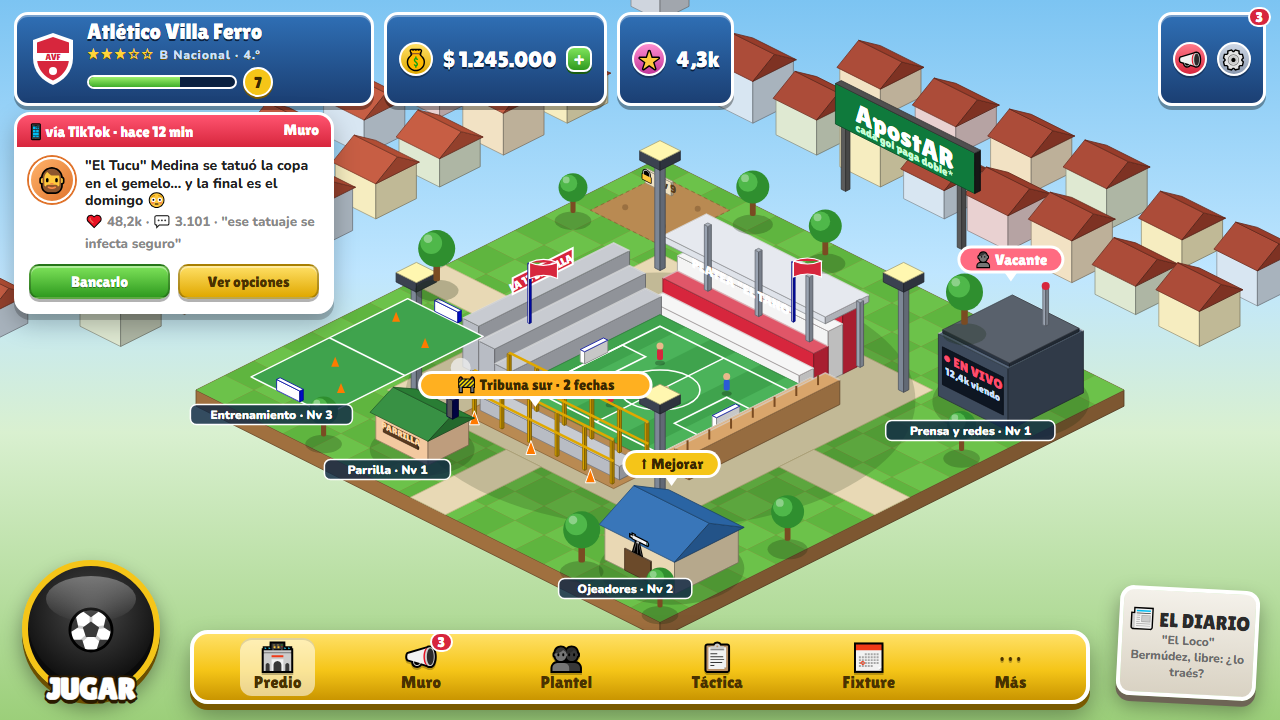
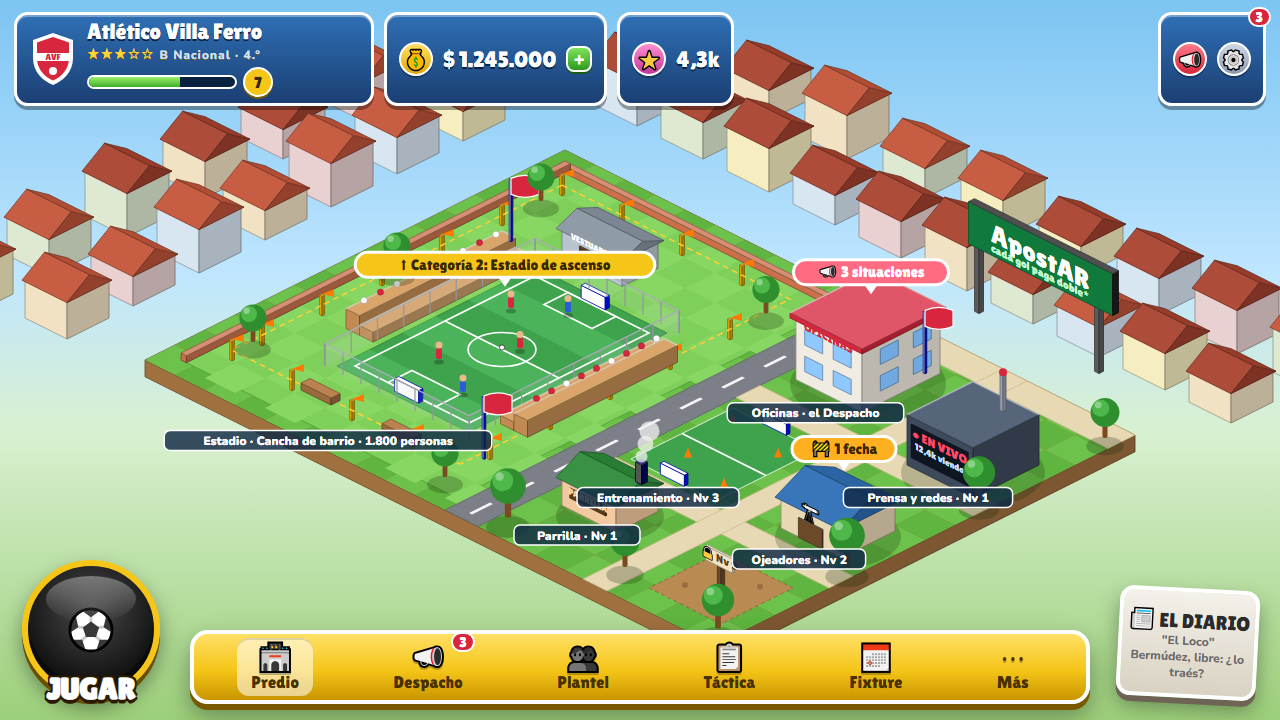
Mockup v2 del predio: estadio a un costado con terreno preparado, villa con oficinas del Despacho

diff --git a/referencias/mockups/predio.html b/referencias/mockups/predio.html
@@ -86,15 +86,6 @@
     <div class="pan" style="position:relative"><div class="ico" style="background:linear-gradient(#ff7a8a,#D7263D)">📣</div><span class="badge">3</span><div class="ico" style="background:linear-gradient(#cfd8e6,#8a99b0)">⚙</div></div>
   </div>
 
-  <div class="toast">
-    <div class="cab"><span>📱 vía TikTok · hace 12 min</span><span>Despacho</span></div>
-    <div class="cue">
-      <div class="av">🧔</div>
-      <div><p>"El Tucu" Medina se tatuó la copa en el gemelo… y la final es el domingo 😳</p><small>❤ 48,2k · 💬 3.101 · "ese tatuaje se infecta seguro"</small></div>
-    </div>
-    <div class="bot"><div class="btn v">Bancarlo</div><div class="btn a">Ver opciones</div></div>
-  </div>
-
   <div class="play"><span>⚽</span><b>JUGAR</b></div>
   <div class="nav">
     <div class="tab on"><span class="e">🏟</span>Predio</div>
@@ -109,7 +100,7 @@
 
 <script>
 // ---------- utilidades isométricas ----------
-const TW = 58, TH = 29, ZH = 27, CX = 660, CY = 158;
+const TW = 60, TH = 30, ZH = 28, CX = 565, CY = 150;
 const svg = document.getElementById('scene');
 const NS = 'http://www.w3.org/2000/svg';
 const P = (x, y, z = 0) => [CX + (x - y) * TW / 2, CY + (x + y) * TH / 2 - z * ZH];
@@ -162,32 +153,123 @@ function cartel(x, y, z, str) { // cartel de nombre bajo edificios
   const t = el('text', { x: sx, y: sy + 14.5, 'text-anchor': 'middle', 'font-family': 'Nunito', 'font-weight': 900, 'font-size': 12, fill: '#fff' }); t.textContent = str;
 }
 
-// ---------- barrio de fondo ----------
+// ---------- escena v2: estadio protagonista a la izquierda, villa a la derecha ----------
+const ROJO = '#D7263D', BLANCO = '#f4f4f4';
+
+// barrio de fondo (detrás de los bordes superiores)
 const casas = [];
-for (let i = -1; i < 16; i += 2.2) casas.push([i, -4.2], [-4.2, i]);
-for (let i = 0; i < 16; i += 2.6) casas.push([i + 1, -6.6], [-6.6, i + 1]);
+for (let i = -1; i < 20; i += 2.2) casas.push([i, -3.4]);
+for (let i = 0; i < 15; i += 2.2) casas.push([-3.4, i]);
+for (let i = 1; i < 20; i += 2.6) casas.push([i, -5.8]);
+for (let i = 1; i < 15; i += 2.6) casas.push([-5.8, i]);
 casas.sort((a, b) => (a[0] + a[1]) - (b[0] + b[1]));
 const paredes = ['#f2e2c4', '#e9d1d1', '#d8e6f2', '#f6edc0', '#dfe9d2'];
 casas.forEach(([x, y], i) => {
-  const c = paredes[i % paredes.length];
-  box(x, y, 0, 1.4, 1.4, 1.1 + (i % 3) * .25, c);
-  techo(x - .05, y - .05, 1.1 + (i % 3) * .25, 1.5, 1.5, .6, i % 2 ? '#c4553a' : '#a8432f');
+  const h = 1.1 + (i % 3) * .25, c = paredes[i % paredes.length];
+  box(x, y, 0, 1.4, 1.4, h, c);
+  techo(x - .05, y - .05, h, 1.5, 1.5, .6, i % 2 ? '#c4553a' : '#a8432f');
 });
-// tanque de agua y cartel de sponsor en el barrio
-box(-2.4, -2.4, 0, .3, .3, 3.2, '#8a8f99'); box(-2.75, -2.75, 3.2, 1, 1, .8, '#cfd5de', { shine: 1 });
-box(4.2, -2.2, 0, .15, .15, 2.4, '#5b5b5b'); box(8.2, -2.2, 0, .15, .15, 2.4, '#5b5b5b');
-box(3.9, -2.35, 2.2, 4.8, .2, 1.5, '#1d1d1d', { left: '#0f7a3c' });
-texto(6.3, -2.13, 2.7, 'ApostAR', 26, '#fff'); texto(6.3, -2.13, 2.35, 'cada gol paga doble*', 11, '#c9ffd9');
+// cartel de sponsor en el barrio
+box(12.2, -1.6, 0, .15, .15, 2.4, '#5b5b5b'); box(16.2, -1.6, 0, .15, .15, 2.4, '#5b5b5b');
+box(11.9, -1.75, 2.2, 4.8, .2, 1.5, '#1d1d1d', { left: '#0f7a3c' });
+texto(14.3, -1.53, 2.7, 'ApostAR', 26, '#fff'); texto(14.3, -1.53, 2.35, 'cada gol paga doble*', 11, '#c9ffd9');
 
-// ---------- plataforma y césped ----------
-box(0, 0, -.6, 16, 16, .6, '#a0703f', { top: '#a0703f' });
-for (let x = 0; x < 16; x++) for (let y = 0; y < 16; y++) poly([P(x, y), P(x + 1, y), P(x + 1, y + 1), P(x, y + 1)], (x + y) % 2 ? '#6cc24a' : '#5fb53f', { stroke: 'none' });
-// caminos de baldosa
-const camino = (x, y, w, d) => poly([P(x, y), P(x + w, y), P(x + w, y + d), P(x, y + d)], '#e8d9b5', { stroke: '#cbb88e' });
-camino(3.3, 3.3, 9.4, 9.4); // explanada alrededor del estadio
-camino(7.4, 12.7, 1.2, 3.3); camino(12.7, 7.4, 3.3, 1.2); camino(0, 7.4, 3.3, 1.2);
+// plataforma y césped
+const GX = 19, GY = 14;
+box(0, 0, -.6, GX, GY, .6, '#a0703f', { top: '#a0703f' });
+for (let x = 0; x < GX; x++) for (let y = 0; y < GY; y++) poly([P(x, y), P(x + 1, y), P(x + 1, y + 1), P(x, y + 1)], (x + y) % 2 ? '#6cc24a' : '#5fb53f', { stroke: 'none' });
+const piso = (x, y, w, d, c, s) => poly([P(x, y), P(x + w, y), P(x + w, y + d), P(x, y + d)], c, { stroke: s || shade(c, -.2) });
 
-// ---------- lotes bloqueados ----------
+// ===== ESTADIO: terreno reservado completo =====
+const SX = .6, SY = .6, SW = 9.2, SD = 12.8;          // terreno del estadio
+piso(SX, SY, SW, SD, '#7fd05a', '#4f9a35');            // césped más claro y prolijo
+for (let x = 0; x < SW; x += 1) for (let y = 0; y < SD; y += 1) if ((x + y) % 2) piso(SX + x, SY + y, 1, 1, '#88d763', 'none');
+// borde: murito bajo de ladrillo alrededor del terreno
+box(SX, SY, 0, SW, .18, .25, '#c96f4a'); box(SX, SY, 0, .18, SD, .25, '#c96f4a');
+// estacas de obra futura (marcan dónde irán las tribunas)
+const estaca = (x, y) => { box(x, y, 0, .08, .08, .7, '#e0a800'); const [sx, sy] = P(x, y, .7); el('path', { d: `M${sx},${sy} l12,-5 l0,8 z`, fill: '#ff7a00' }); };
+for (let x = 1.4; x < 9.4; x += 2) { estaca(x, 1.5); estaca(x, 12.5); }
+for (let y = 3.5; y < 12; y += 2) { estaca(1.4, y); estaca(9, y); }
+el('polyline', { points: pts([P(1.45, 1.55, .35), P(9.05, 1.55, .35), P(9.05, 12.55, .35)]), stroke: '#ffcf33', 'stroke-width': 1.5, 'stroke-dasharray': '6 4', fill: 'none' });
+el('polyline', { points: pts([P(1.45, 1.55, .35), P(1.45, 12.55, .35), P(9.05, 12.55, .35)]), stroke: '#ffcf33', 'stroke-width': 1.5, 'stroke-dasharray': '6 4', fill: 'none' });
+
+// tablón del fondo (lado izquierdo de la cancha, x chico)
+for (let i = 0; i < 2; i++) box(2.3 + i * .45, 4.4, 0, .45, 5.2, .7 - i * .35, '#c08a52', { shine: 1, top: '#d9a56b' });
+// vestuario de chapa
+box(3.5, 2.4, 0, 2, 1.2, 1, '#b9c4cf', { shine: 1 }); techo(3.4, 2.3, 1, 2.2, 1.4, .35, '#8a96a3');
+box(4.1, 3.6, 0, .6, .02, .7, '#5b3a1e'); texto(4.5, 3.62, .82, 'VESTUARIO', 8, '#fff');
+// la cancha (chica, cat. 1)
+const CXa = 3.4, CYa = 4.4, CW = 4.4, CD = 6.6;
+piso(CXa, CYa, CW, CD, '#3fa34d', '#2a7a37');
+for (let s = 0; s < 6; s++) if (s % 2) piso(CXa, CYa + s * CD / 6, CW, CD / 6, '#4bb35a', 'none');
+const L = { fill: 'none', stroke: '#fff', 'stroke-width': 1.6 };
+el('polygon', Object.assign({ points: pts([P(CXa + .3, CYa + .3), P(CXa + CW - .3, CYa + .3), P(CXa + CW - .3, CYa + CD - .3), P(CXa + .3, CYa + CD - .3)]) }, L));
+el('polyline', Object.assign({ points: pts([P(CXa + .3, CYa + CD / 2), P(CXa + CW - .3, CYa + CD / 2)]) }, L));
+{ const [ex, ey] = P(CXa + CW / 2, CYa + CD / 2); el('ellipse', Object.assign({ cx: ex, cy: ey, rx: 34, ry: 17 }, L)); }
+el('polygon', Object.assign({ points: pts([P(CXa + 1.4, CYa + .3), P(CXa + 3, CYa + .3), P(CXa + 3, CYa + 1.1), P(CXa + 1.4, CYa + 1.1)]) }, L));
+el('polygon', Object.assign({ points: pts([P(CXa + 1.4, CYa + CD - .3), P(CXa + 3, CYa + CD - .3), P(CXa + 3, CYa + CD - 1.1), P(CXa + 1.4, CYa + CD - 1.1)]) }, L));
+box(CXa + 1.8, CYa + .12, 0, .8, .14, .45, '#fff', { top: '#fff' });
+box(CXa + 1.8, CYa + CD - .26, 0, .8, .14, .45, '#fff', { top: '#fff' });
+[[4.4, 6.2, ROJO], [5.9, 7.4, ROJO], [4.9, 9.1, ROJO], [6.4, 9.8, '#2b5bd7'], [5.5, 5.4, '#2b5bd7']].forEach(([x, y, c]) => { const [sx, sy] = P(x, y); el('ellipse', { cx: sx, cy: sy + 2, rx: 5, ry: 2.5, fill: 'rgba(0,0,0,.25)' }); el('rect', { x: sx - 3, y: sy - 12, width: 6, height: 11, rx: 2, fill: c }); el('circle', { cx: sx, cy: sy - 15, r: 3.5, fill: '#e8b98a' }); });
+{ const [sx, sy] = P(5.6, 7.7); el('circle', { cx: sx, cy: sy - 2, r: 2.6, fill: '#fff', stroke: '#333', 'stroke-width': .8 }); }
+// alambrado alrededor de la cancha
+const AL = [[CXa - .2, CYa - .2], [CXa + CW + .2, CYa - .2], [CXa + CW + .2, CYa + CD + .2], [CXa - .2, CYa + CD + .2]];
+for (let k = 0; k < 4; k++) { const [a, b] = [AL[k], AL[(k + 1) % 4]]; const n = 8; for (let i = 0; i <= n; i++) { const x = a[0] + (b[0] - a[0]) * i / n, y = a[1] + (b[1] - a[1]) * i / n; const [p1, p2] = [P(x, y, 0), P(x, y, .8)]; el('line', { x1: p1[0], y1: p1[1], x2: p2[0], y2: p2[1], stroke: '#8a8f99', 'stroke-width': 1.2 }); } el('polyline', { points: pts([P(a[0], a[1], .8), P(b[0], b[1], .8)]), stroke: '#a6abb4', 'stroke-width': 1.2, fill: 'none' }); el('polygon', { points: pts([P(a[0], a[1], 0), P(b[0], b[1], 0), P(b[0], b[1], .8), P(a[0], a[1], .8)]), fill: 'rgba(200,205,215,.12)', stroke: 'none' }); }
+// tablón del frente (lado derecho de la cancha, x grande) — bajo para no tapar
+for (let i = 0; i < 2; i++) box(8.05 + i * .45, 5.2, 0, .45, 5, .3 + i * .3, '#c08a52', { shine: 1, top: '#d9a56b' });
+// hinchas en los tablones
+for (let k = 0; k < 9; k++) { const [sx, sy] = P(8.55, 5.5 + k * .5, .62); el('circle', { cx: sx, cy: sy - 5, r: 3.2, fill: k % 3 ? ROJO : '#fff', stroke: 'rgba(0,0,0,.25)', 'stroke-width': .6 }); }
+for (let k = 0; k < 9; k++) { const [sx, sy] = P(2.5, 4.8 + k * .55, .72); el('circle', { cx: sx, cy: sy - 5, r: 3.2, fill: k % 2 ? ROJO : '#fff', stroke: 'rgba(0,0,0,.25)', 'stroke-width': .6 }); }
+// bandera y trapo
+function bandera(x, y, c = ROJO) { box(x, y, 0, .06, .06, 2.2, '#ddd'); const [sx, sy] = P(x, y, 2.2); el('path', { d: `M${sx},${sy} q14,-6 28,0 v16 q-14,6 -28,0 z`, fill: c, stroke: '#fff', 'stroke-width': 1.2 }); }
+bandera(2.1, 3.9); bandera(8.9, 11.6);
+// árboles y bancos dentro del terreno (que se vea cuidado)
+[[1.2, 11.6], [1.3, 2.1], [8.8, 2.1], [8.9, 12.9], [1.2, 6.8]].forEach(([x, y]) => arbol(x, y, .8));
+[[6.3, 12.1], [3.6, 12.1]].forEach(([x, y]) => { box(x, y, 0, 1, .3, .25, '#9b6a3c', { top: '#b9824e' }); });
+
+// ===== CALLE entre el estadio y la villa =====
+piso(10, 0, 1.1, GY, '#7c7f87', '#5f626a');
+for (let y = .4; y < GY; y += 1.4) piso(10.5, y, .1, .7, '#f4f4f4', 'none');
+
+// ===== LA VILLA =====
+const vereda = (x, y, w, d) => piso(x, y, w, d, '#e8d9b5', '#cbb88e');
+vereda(11.1, 0, 7.9, .9); vereda(11.1, 4.6, 7.9, .8); vereda(11.1, 9.4, 7.9, .8); vereda(14.6, 0, .8, GY);
+
+// oficinas (el Despacho) — arriba
+sombra(11.5, 1.2, 2.2, 2.6);
+box(11.5, 1.2, 0, 2.2, 2.6, 2.2, '#f1ece2', { shine: 1 });
+box(11.4, 1.1, 2.2, 2.4, 2.8, .18, ROJO, { shine: 1 });
+for (let f = 0; f < 2; f++) for (let c = 0; c < 2; c++) poly([P(11.8 + c * .95, 3.81, .45 + f * .95), P(12.4 + c * .95, 3.81, .45 + f * .95), P(12.4 + c * .95, 3.81, 1.0 + f * .95), P(11.8 + c * .95, 3.81, 1.0 + f * .95)], '#8fc8ff');
+for (let f = 0; f < 2; f++) for (let r = 0; r < 2; r++) poly([P(13.71, 1.5 + r * 1.1, .45 + f * .95), P(13.71, 2.1 + r * 1.1, .45 + f * .95), P(13.71, 2.1 + r * 1.1, 1.0 + f * .95), P(13.71, 1.5 + r * 1.1, 1.0 + f * .95)], '#6fa9e0');
+bandera(13.4, 1.4);
+texto(12.6, 3.82, 1.95, "OFICINAS", 11, ROJO);
+
+// prensa y redes
+sombra(16.2, 2.6, 2.2, 2.2);
+box(16.2, 2.6, 0, 2.2, 2.2, 1.8, '#3d4a5c', { shine: 1, top: '#56657a' });
+box(17.6, 3, 1.8, .1, .1, 1.3, "#9aa3b1"); { const [sx, sy] = P(17.65, 3.05, 3.15); el('circle', { cx: sx, cy: sy, r: 4, fill: ROJO }); }
+poly([P(16.35, 4.81, .35), P(18.25, 4.81, .35), P(18.25, 4.81, 1.55), P(16.35, 4.81, 1.55)], '#0e1622');
+texto(17.3, 4.82, 1.1, '● EN VIVO', 12, '#ff4d6d'); texto(17.3, 4.82, .72, '12,4k viendo', 9, '#cfe3ff');
+
+// cancha de entrenamiento
+piso(11.4, 5.8, 2.8, 3.4, "#3fa34d", "#fff");
+el("polyline", Object.assign({ points: pts([P(11.4, 7.5), P(14.2, 7.5)]) }, L));
+box(12.4, 5.7, 0, .8, .12, .4, '#fff', { top: '#fff' }); box(12.4, 9.1, 0, .8, .12, .4, '#fff', { top: '#fff' });
+[[11.9, 6.3], [13.8, 6.7], [12.3, 8.2], [13.9, 8.6]].forEach(([x, y]) => { const [sx, sy] = P(x, y); el('path', { d: `M${sx - 4},${sy} L${sx},${sy - 10} L${sx + 4},${sy} Z`, fill: '#ff7a00' }); });
+
+// ojeadores
+sombra(16.2, 7.2, 2, 1.8);
+box(16.2, 7.2, 0, 2, 1.8, 1.1, '#e9d8b4', { shine: 1 }); techo(16.1, 7.1, 1.1, 2.2, 2, .6, '#2f6fb5');
+box(16.8, 9.0, 0, .8, .02, .7, '#6b4a2a'); texto(17.2, 9.02, .85, '🔭', 16, '#000');
+
+// parrilla
+sombra(11.8, 10.5, 1.8, 1.4);
+box(11.8, 10.5, 0, 1.8, 1.4, 1, '#f3c9a0', { shine: 1 }); techo(11.7, 10.4, 1, 2, 1.6, .5, '#2E8B3A');
+box(12.1, 11.92, .45, 1.2, .02, .35, '#5b3a1e'); texto(12.7, 11.94, .58, 'PARRILLA', 9, '#ffd8a8');
+box(13.35, 10.8, 1.2, .2, .2, .7, '#555');
+for (let s = 0; s < 3; s++) { const [sx, sy] = P(13.45, 10.9, 2.1 + s * .45); el('circle', { cx: sx + s * 4, cy: sy, r: 6 + s * 2, fill: 'rgba(240,240,240,.75)' }); }
+
+// lote bloqueado
 function baldio(x, y, nv) {
   poly([P(x, y), P(x + 2.4, y), P(x + 2.4, y + 2.4), P(x, y + 2.4)], '#b98a52', { stroke: '#8a6236', 'stroke-dasharray': '4 3' });
   for (let i = 0; i < 4; i++) { const [sx, sy] = P(x + .5 + (i % 2) * 1.3, y + .5 + (i >> 1) * 1.2); el('circle', { cx: sx, cy: sy, r: 3, fill: '#9a7041' }); }
@@ -195,89 +277,19 @@ function baldio(x, y, nv) {
   box(x + .7, y + 1.15, .75, .9, .06, .5, '#f1e3c3');
   texto(x + 1.15, y + 1.21, .9, '🔒 Nv ' + nv, 11, '#5b3d1e');
 }
-baldio(.6, .6, 9);
+baldio(16, 10.8, 9);
 
-// ---------- estadio ----------
-const ROJO = '#D7263D', BLANCO = '#f4f4f4';
-sombra(3.8, 3.8, 8.6, 8.6, .18);
-// tribuna norte (platea techada, la más alta)
-for (let i = 0; i < 4; i++) box(5.4, 3.8 + i * .5, 0, 5.2, .5, 2.4 - i * .55, i % 2 ? BLANCO : ROJO, { shine: 1 });
-box(5.2, 3.6, 2.4, 5.6, 1.5, .25, '#dfe3ea', { shine: 1 }); // techo
-for (let k = 0; k < 4; k++) box(5.3 + k * 1.75, 3.65, 0, .12, .12, 2.4, '#9aa3b1');
-texto(8, 5.12, 2.05, 'PLATEA "EL TANO" ', 13, '#fff');
-// tribuna oeste (cemento, popular)
-for (let i = 0; i < 3; i++) box(3.8 + i * .55, 5.4, 0, .55, 5.2, 1.8 - i * .55, '#b8bcc4', { shine: 1 });
-const [bx, by] = P(4.2, 7.9, 1.9); // trapo de la barra
-el('path', { d: `M${bx - 40},${by - 4} l60,-30 l0,16 l-60,30 z`, fill: ROJO, stroke: '#fff', 'stroke-width': 2 });
-el('text', { x: bx - 10, y: by - 6, transform: `rotate(-26.5 ${bx - 10} ${by - 6})`, 'font-family': 'Lilita One', 'font-size': 11, fill: '#fff', 'text-anchor': 'middle' }).textContent = 'LA 12 DE VILLA';
-// torre de luz del fondo
-box(3.7, 3.7, 0, .18, .18, 4, '#7d8796'); box(3.45, 3.45, 4, .7, .7, .35, '#3b4250', { top: '#fff7b0' });
-// cancha
-poly([P(5.4, 5.4), P(10.6, 5.4), P(10.6, 10.6), P(5.4, 10.6)], '#3fa34d', { stroke: '#2a7a37' });
-for (let s = 0; s < 6; s++) if (s % 2) poly([P(5.4 + s * 5.2 / 6, 5.4), P(5.4 + (s + 1) * 5.2 / 6, 5.4), P(5.4 + (s + 1) * 5.2 / 6, 10.6), P(5.4 + s * 5.2 / 6, 10.6)], '#4bb35a', { stroke: 'none' });
-const L = { fill: 'none', stroke: '#fff', 'stroke-width': 1.6 };
-el('polygon', Object.assign({ points: pts([P(5.8, 5.8), P(10.2, 5.8), P(10.2, 10.2), P(5.8, 10.2)]) }, L));
-el('polyline', Object.assign({ points: pts([P(8, 5.8), P(8, 10.2)]) }, L));
-{ const [ex, ey] = P(8, 8); el('ellipse', Object.assign({ cx: ex, cy: ey, rx: 40, ry: 20 }, L)); }
-el('polygon', Object.assign({ points: pts([P(5.8, 7.1), P(6.6, 7.1), P(6.6, 8.9), P(5.8, 8.9)]) }, L));
-el('polygon', Object.assign({ points: pts([P(10.2, 7.1), P(9.4, 7.1), P(9.4, 8.9), P(10.2, 8.9)]) }, L));
-box(5.65, 7.6, 0, .15, .8, .45, '#ffffff', { top: '#fff' }); // arcos
-box(10.2, 7.6, 0, .15, .8, .45, '#ffffff', { top: '#fff' });
-// jugadores entrenando (puntitos)
-[[7, 7, ROJO], [8.6, 8.4, ROJO], [7.6, 9.3, ROJO], [9.2, 6.9, '#2b5bd7']].forEach(([x, y, c]) => { const [sx, sy] = P(x, y); el('ellipse', { cx: sx, cy: sy + 2, rx: 5, ry: 2.5, fill: 'rgba(0,0,0,.25)' }); el('rect', { x: sx - 3, y: sy - 12, width: 6, height: 11, rx: 2, fill: c }); el('circle', { cx: sx, cy: sy - 15, r: 3.5, fill: '#e8b98a' }); });
-{ const [sx, sy] = P(8.1, 8.1); el('circle', { cx: sx, cy: sy - 2, r: 2.6, fill: '#fff', stroke: '#333', 'stroke-width': .8 }); }
-// tribuna este (tablones)
-for (let i = 0; i < 2; i++) box(10.6 + i * .5, 5.4, 0, .5, 5.2, .45 + i * .45, '#c08a52', { shine: 1, top: '#d9a56b' });
-for (let k = 0; k < 7; k++) { const [sx, sy] = P(11.05, 5.6 + k * .75, .9); el('line', { x1: sx, y1: sy, x2: sx, y2: sy + 10, stroke: '#7a4b22', 'stroke-width': 2 }); }
-// tribuna sur (en obra)
-poly([P(5.4, 10.6), P(10.6, 10.6), P(10.6, 12.2), P(5.4, 12.2)], '#b98a52', { stroke: '#8a6236' });
-box(5.6, 11.3, 0, 4.8, .5, .5, '#b8bcc4');
-for (let k = 0; k < 6; k++) for (const yy of [10.8, 12]) box(5.6 + k * .95, yy, 0, .07, .07, 1.6, '#e0a800');
-for (const yy of [10.8, 12]) for (const zz of [.8, 1.6]) el('polyline', { points: pts([P(5.6, yy, zz), P(10.4, yy, zz)]), stroke: '#e0a800', 'stroke-width': 2.5, fill: 'none' });
-[[6, 12.4], [8, 12.45], [10, 12.4]].forEach(([x, y]) => { const [sx, sy] = P(x, y); el('path', { d: `M${sx - 5},${sy} L${sx},${sy - 14} L${sx + 5},${sy} Z`, fill: '#ff7a00', stroke: '#fff', 'stroke-width': 1 }); });
-// torres de luz del frente
-box(12.1, 3.7, 0, .18, .18, 4, '#7d8796'); box(11.85, 3.45, 4, .7, .7, .35, '#3b4250', { top: '#fff7b0' });
-box(3.7, 12.1, 0, .18, .18, 4, '#7d8796'); box(3.45, 11.85, 4, .7, .7, .35, '#3b4250', { top: '#fff7b0' });
-box(12.1, 12.1, 0, .18, .18, 4, '#7d8796'); box(11.85, 11.85, 4, .7, .7, .35, '#3b4250', { top: '#fff7b0' });
+// árboles de la villa
+[[18.6, .6], [18.6, 4.8], [18.6, 9.2], [14.9, 12.9], [18.5, 13.4], [11.3, 13.2]].forEach(([x, y], i) => arbol(x, y, .85 + (i % 3) * .1));
 
-// ---------- edificios ----------
-// oficina de ojeadores (arriba a la derecha)
-sombra(12.9, 12.6, 2.4, 2.2);
-box(12.9, 12.6, 0, 2.4, 2.2, 1.3, '#e9d8b4', { shine: 1 }); techo(12.8, 12.5, 1.3, 2.6, 2.4, .8, "#2f6fb5");
-box(13.6, 14.8, 0, .9, .02, .8, "#6b4a2a"); // puerta
-texto(14.1, 14.82, .95, '🔭', 18, '#000');
-// cancha de entrenamiento (izquierda)
-poly([P(.5, 9.2), P(3.1, 9.2), P(3.1, 14.6), P(.5, 14.6)], '#3fa34d', { stroke: '#fff', 'stroke-width': 1.5 });
-el('polyline', Object.assign({ points: pts([P(.5, 11.9), P(3.1, 11.9)]) }, L));
-box(1.4, 9.05, 0, .8, .12, .4, '#fff', { top: '#fff' }); box(1.4, 14.5, 0, .8, .12, .4, '#fff', { top: '#fff' });
-[[1.1, 10.2], [2.5, 10.6], [1.6, 12.8], [2.6, 13.6]].forEach(([x, y]) => { const [sx, sy] = P(x, y); el('path', { d: `M${sx - 4},${sy} L${sx},${sy - 10} L${sx + 4},${sy} Z`, fill: '#ff7a00' }); });
-// prensa y redes (derecha)
-sombra(13, .8, 2.4, 2.6);
-box(13, .8, 0, 2.4, 2.6, 2.3, '#3d4a5c', { shine: 1, top: '#56657a' });
-box(13.05, .9, 2.3, 2.3, 2.4, .12, '#2a3442');
-box(14.6, 1.3, 2.42, .1, .1, 1.4, "#9aa3b1"); { const [sx, sy] = P(14.65, 1.35, 3.85); el('circle', { cx: sx, cy: sy, r: 4, fill: ROJO }); }
-poly([P(13.15, 3.41, .5), P(15.25, 3.41, .5), P(15.25, 3.41, 1.9), P(13.15, 3.41, 1.9)], '#0e1622');
-texto(14.2, 3.42, 1.4, '● EN VIVO', 13, '#ff4d6d'); texto(14.2, 3.42, .95, '12,4k viendo', 10, '#cfe3ff');
-// buffet / parrilla (abajo)
-sombra(4.8, 13.2, 1.8, 1.4);
-box(4.8, 13.2, 0, 1.8, 1.4, 1, '#f3c9a0', { shine: 1 }); techo(4.7, 13.1, 1, 2, 1.6, .5, '#2E8B3A');
-box(5.1, 14.62, .45, 1.2, .02, .35, '#5b3a1e'); texto(5.7, 14.64, .58, 'PARRILLA', 9, '#ffd8a8');
-box(6.35, 13.5, 1.2, .2, .2, .7, '#555');
-for (let s = 0; s < 3; s++) { const [sx, sy] = P(6.45, 13.6, 2.1 + s * .45); el('circle', { cx: sx + s * 4, cy: sy, r: 6 + s * 2, fill: 'rgba(240,240,240,.75)' }); }
-
-// árboles
-[[.4, 3.4], [3.6, .4], [.4, 8.1], [15.3, 4.9], [15.4, 11], [12.6, 15.3], [3.8, 15.4], [6.2, .5], [11, .5], [15.5, 15.5]].forEach(([x, y], i) => arbol(x, y, .85 + (i % 3) * .12));
-
-// banderas
-function bandera(x, y) { box(x, y, 0, .06, .06, 2.2, '#ddd'); const [sx, sy] = P(x, y, 2.2); el('path', { d: `M${sx},${sy} q14,-6 28,0 q-14,6 -28,0 v16 q14,-6 28,0 v-16`, fill: ROJO, stroke: '#fff', 'stroke-width': 1.2 }); }
-bandera(3.4, 7.9); bandera(7.9, 3.3);
-
-// ---------- carteles y burbujas ----------
-cartel(13.9, 15.1, 0, 'Ojeadores · Nv 2'); burbuja(14.1, 13.7, 3, '⬆ Mejorar');
-cartel(1.8, 15.2, 0, 'Entrenamiento · Nv 3');
-cartel(14.4, 3.7, 0, 'Prensa y redes · Nv 1'); burbuja(14.2, 2.1, 4.4, '👤 Vacante', '#ff6b81', '#fff');
-burbuja(8, 12.3, 1.9, '🚧 Tribuna sur · 2 fechas', '#ffb020');
-cartel(5.7, 15.1, 0, 'Parrilla · Nv 1');
+// ===== carteles y burbujas =====
+cartel(5.4, 13.3, 0, 'Estadio · Cancha de barrio · 1.800 personas');
+burbuja(5.6, 7.6, 2.4, '⬆ Categoría 2: Estadio de ascenso');
+cartel(12.6, 4.25, 0, 'Oficinas · el Despacho'); burbuja(12.6, 2.4, 3.1, '📣 3 situaciones', '#ff6b81', '#fff');
+cartel(17.3, 5.2, 0, 'Prensa y redes · Nv 1');
+cartel(12.8, 9.7, 0, 'Entrenamiento · Nv 3');
+cartel(17.2, 9.4, 0, 'Ojeadores · Nv 2'); burbuja(17.2, 7.9, 2.2, '🚧 1 fecha', '#ffb020');
+cartel(12.7, 12.3, 0, 'Parrilla · Nv 1');
 
 // ---------- escala ----------
 function fit() { const s = Math.min(innerWidth / 1280, innerHeight / 720); document.getElementById('stage').style.transform = `translate(-50%,-50%) scale(${s})`; }

diff --git a/CLAUDE.md b/CLAUDE.md
@@ -25,7 +25,7 @@ Juego de fútbol para navegador inspirado en BOLA Social Soccer (Facebook, 2011)
 
 ## Estado (2026-10-07)
 - Requisitos aprobados: interfaz, club, despacho, partido.
-- `specs/interfaz/design.md` en revisión: rehacer el mockup `referencias/mockups/predio.png` con el estadio a un costado y la villa del otro.
+- `specs/interfaz/design.md` en revisión: mockup v2 (`referencias/mockups/predio.png`) con el estadio a un costado y la villa del otro, esperando opinión del usuario.
 - Próximo paso: aprobar el diseño de la interfaz → `specs/interfaz/tasks.md` → instalar Node (`winget install OpenJS.NodeJS.LTS`) → programar.
 
 ## Herramientas
